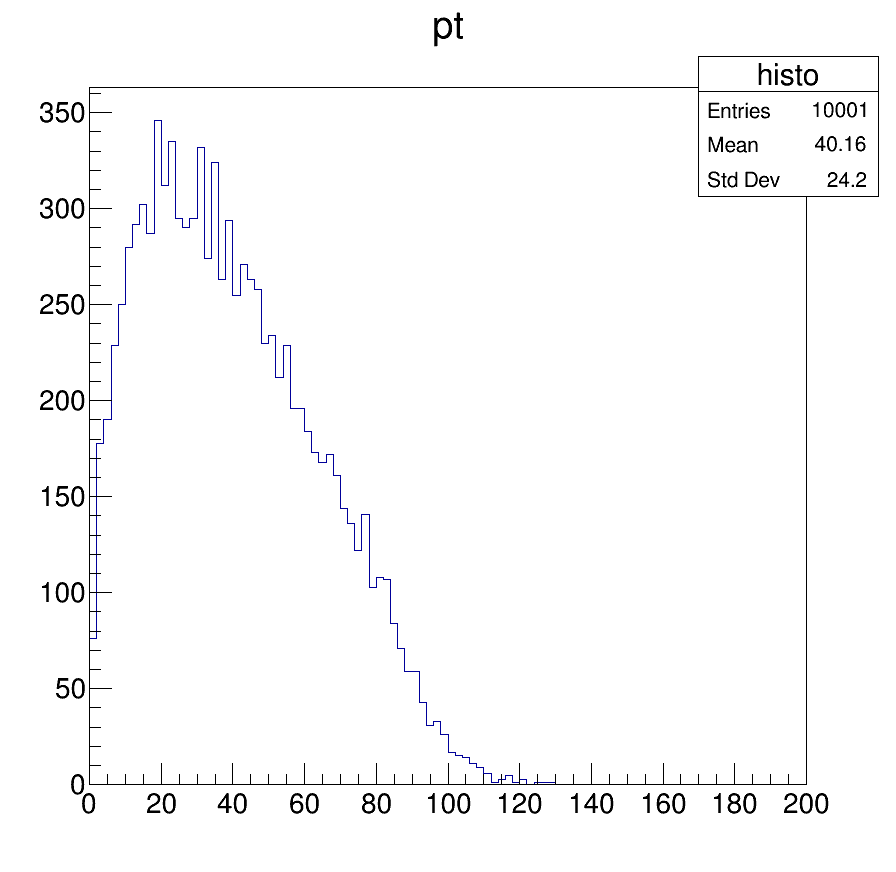
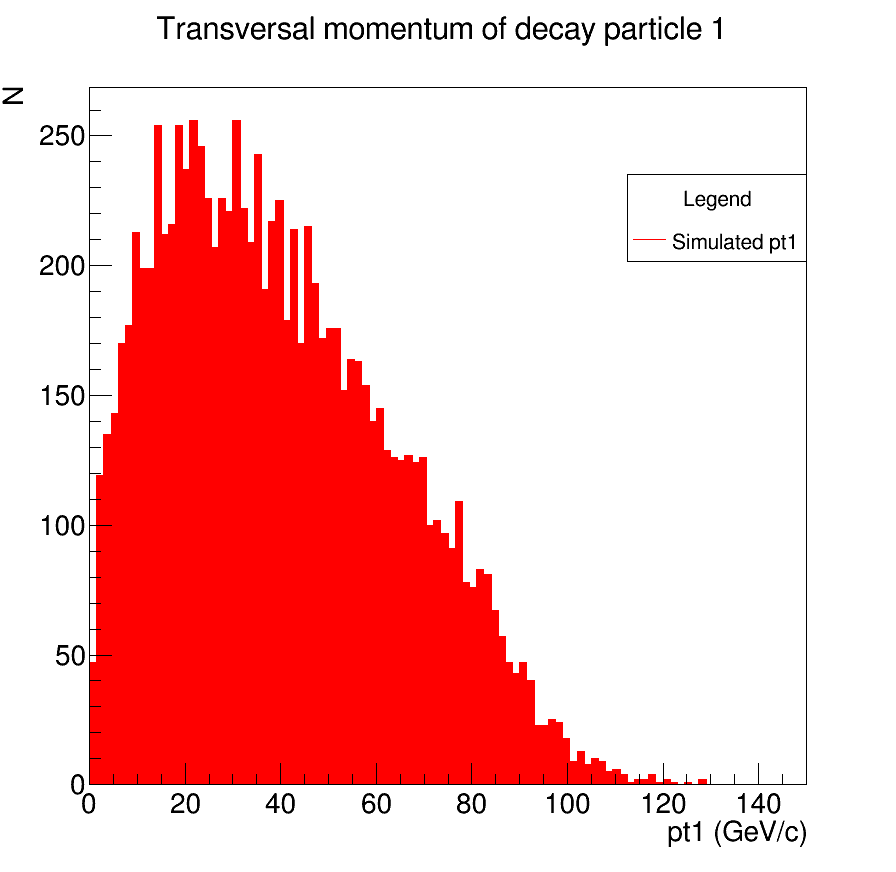
Added Vjezbe_5 task3

diff --git a/Vjezbe_5/Analyzer.cpp b/Vjezbe_5/Analyzer.cpp
@@ -2,6 +2,7 @@
 #include "Analyzer.h"
 #include <TH2.h>
 #include <TH1F.h>
+#include <TLegend.h>
 #include <TStyle.h>
 #include <TCanvas.h>
 
@@ -12,7 +13,8 @@ void Analyzer::Loop()
    Long64_t nentries = fChain->GetEntriesFast();
 
    Long64_t nbytes = 0, nb = 0;
-   for (Long64_t jentry=0; jentry<nentries;jentry++) {
+   for (Long64_t jentry=0; jentry<nentries;jentry++)
+   {
       Long64_t ientry = LoadTree(jentry);
       if (ientry < 0) break;
       nb = fChain->GetEntry(jentry);   nbytes += nb;
@@ -21,23 +23,38 @@ void Analyzer::Loop()
 }
 void Analyzer::PlotHistogram()
 {
-	TH1F* histo = new TH1F("histo", "pt", 100, 0, 200);
+	TH1F* histo = new TH1F("histo", "pt", 100, 0, 150);
 	if (fChain == 0) return;
 
-   Long64_t nentries = fChain->GetEntriesFast();
+	Long64_t nentries = fChain->GetEntriesFast();
 
-   Long64_t nbytes = 0, nb = 0;
-   for (Long64_t jentry=0; jentry<nentries;jentry++) {
-      Long64_t ientry = LoadTree(jentry);
-      if (ientry < 0) break;
-      nb = fChain->GetEntry(jentry);   nbytes += nb;
-      // if (Cut(ientry) < 0) continue;
-      histo->Fill(pt1);
-   }
+	Long64_t nbytes = 0, nb = 0;
+	for (Long64_t jentry=0; jentry<nentries;jentry++)
+	{
+		Long64_t ientry = LoadTree(jentry);
+		if (ientry < 0) break;
+		nb = fChain->GetEntry(jentry);   nbytes += nb;
+		// if (Cut(ientry) < 0) continue;
+		histo->Fill(pt1);
+	}
    
-   TCanvas* c = new TCanvas("c", "c", 900, 900);
-   histo->Draw();
-   c->SaveAs("pt1.pdf");
-   c->SaveAs("pt1.png");
-   c->SaveAs("pt1.root");
+	TCanvas* c = new TCanvas("c", "c", 900, 900);
+	
+	histo->SetTitle(TString("Transversal momentum of decay particle 1"));
+	histo->GetXaxis()->SetTitle("pt1 (GeV/c)");
+	histo->GetYaxis()->SetTitle("N");
+	histo->SetLineColor(2);
+	histo->SetFillColor(2);
+	histo->SetStats(0);
+	histo->Draw();
+	
+	TLegend *legend= new TLegend(0.7,0.7,0.9,0.8);
+	
+	legend->SetHeader("Legend","C");
+	legend->AddEntry(histo,"Simulated pt1","l");
+	legend->Draw("pt1");
+	
+	c->SaveAs("pt1.pdf");
+	c->SaveAs("pt1.png");
+	c->SaveAs("pt1.root");
 }
